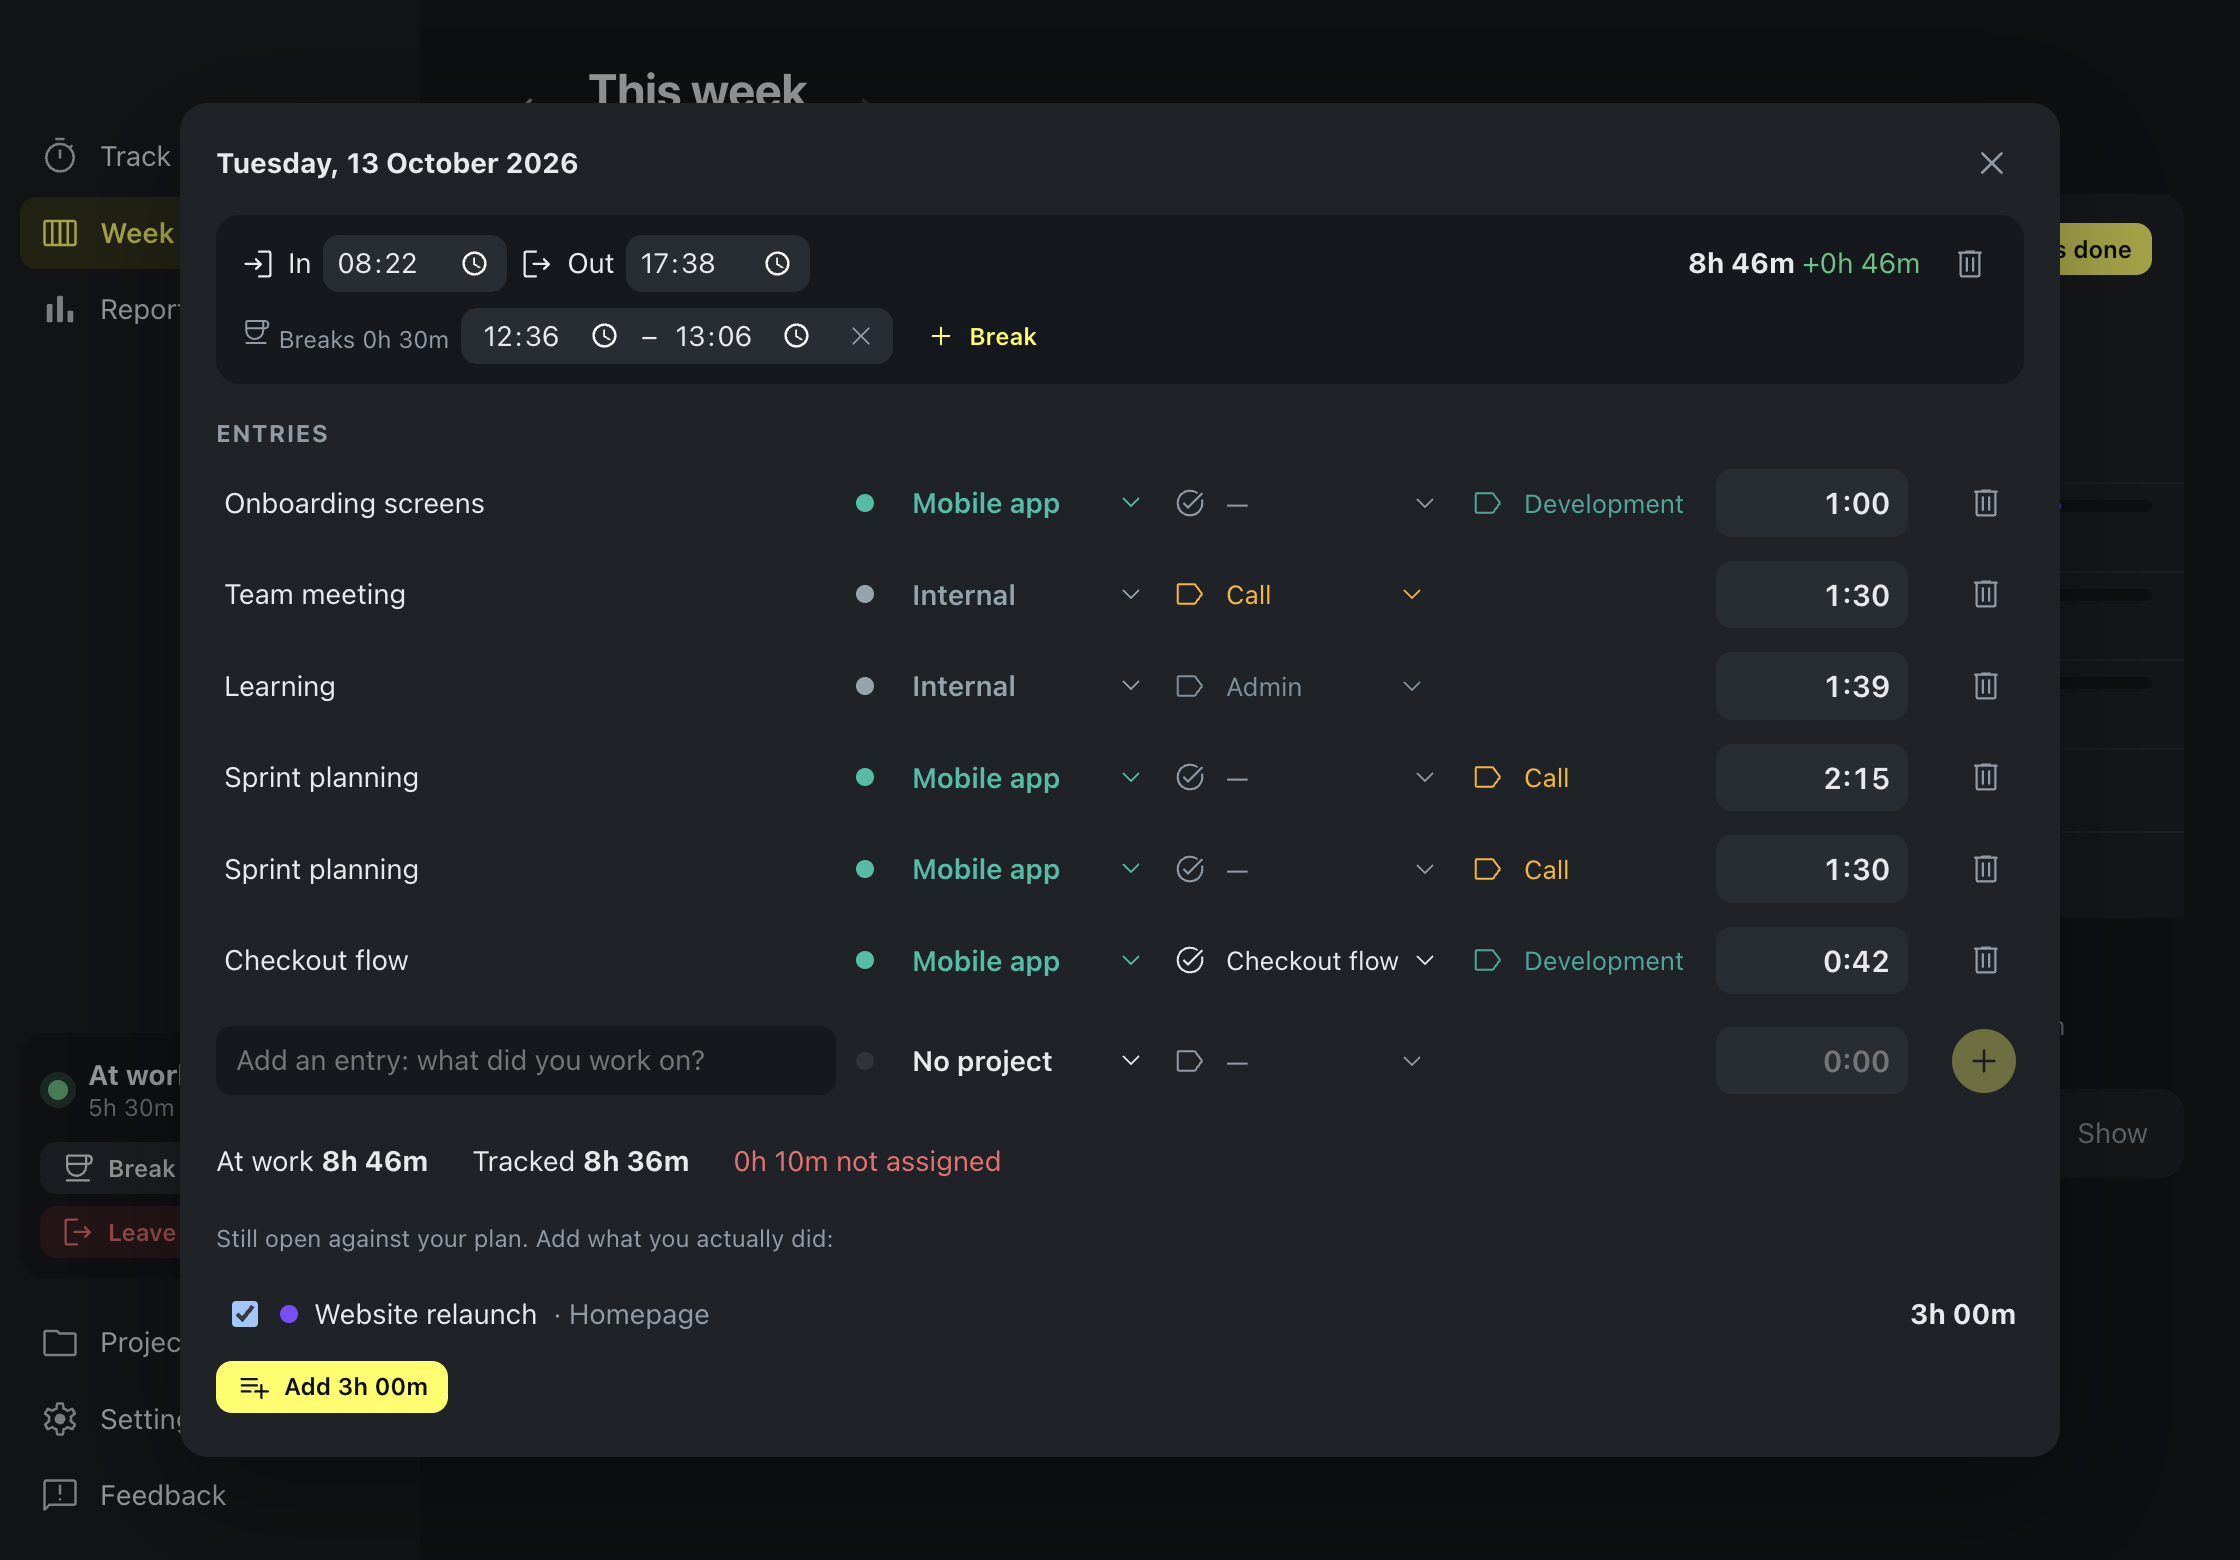
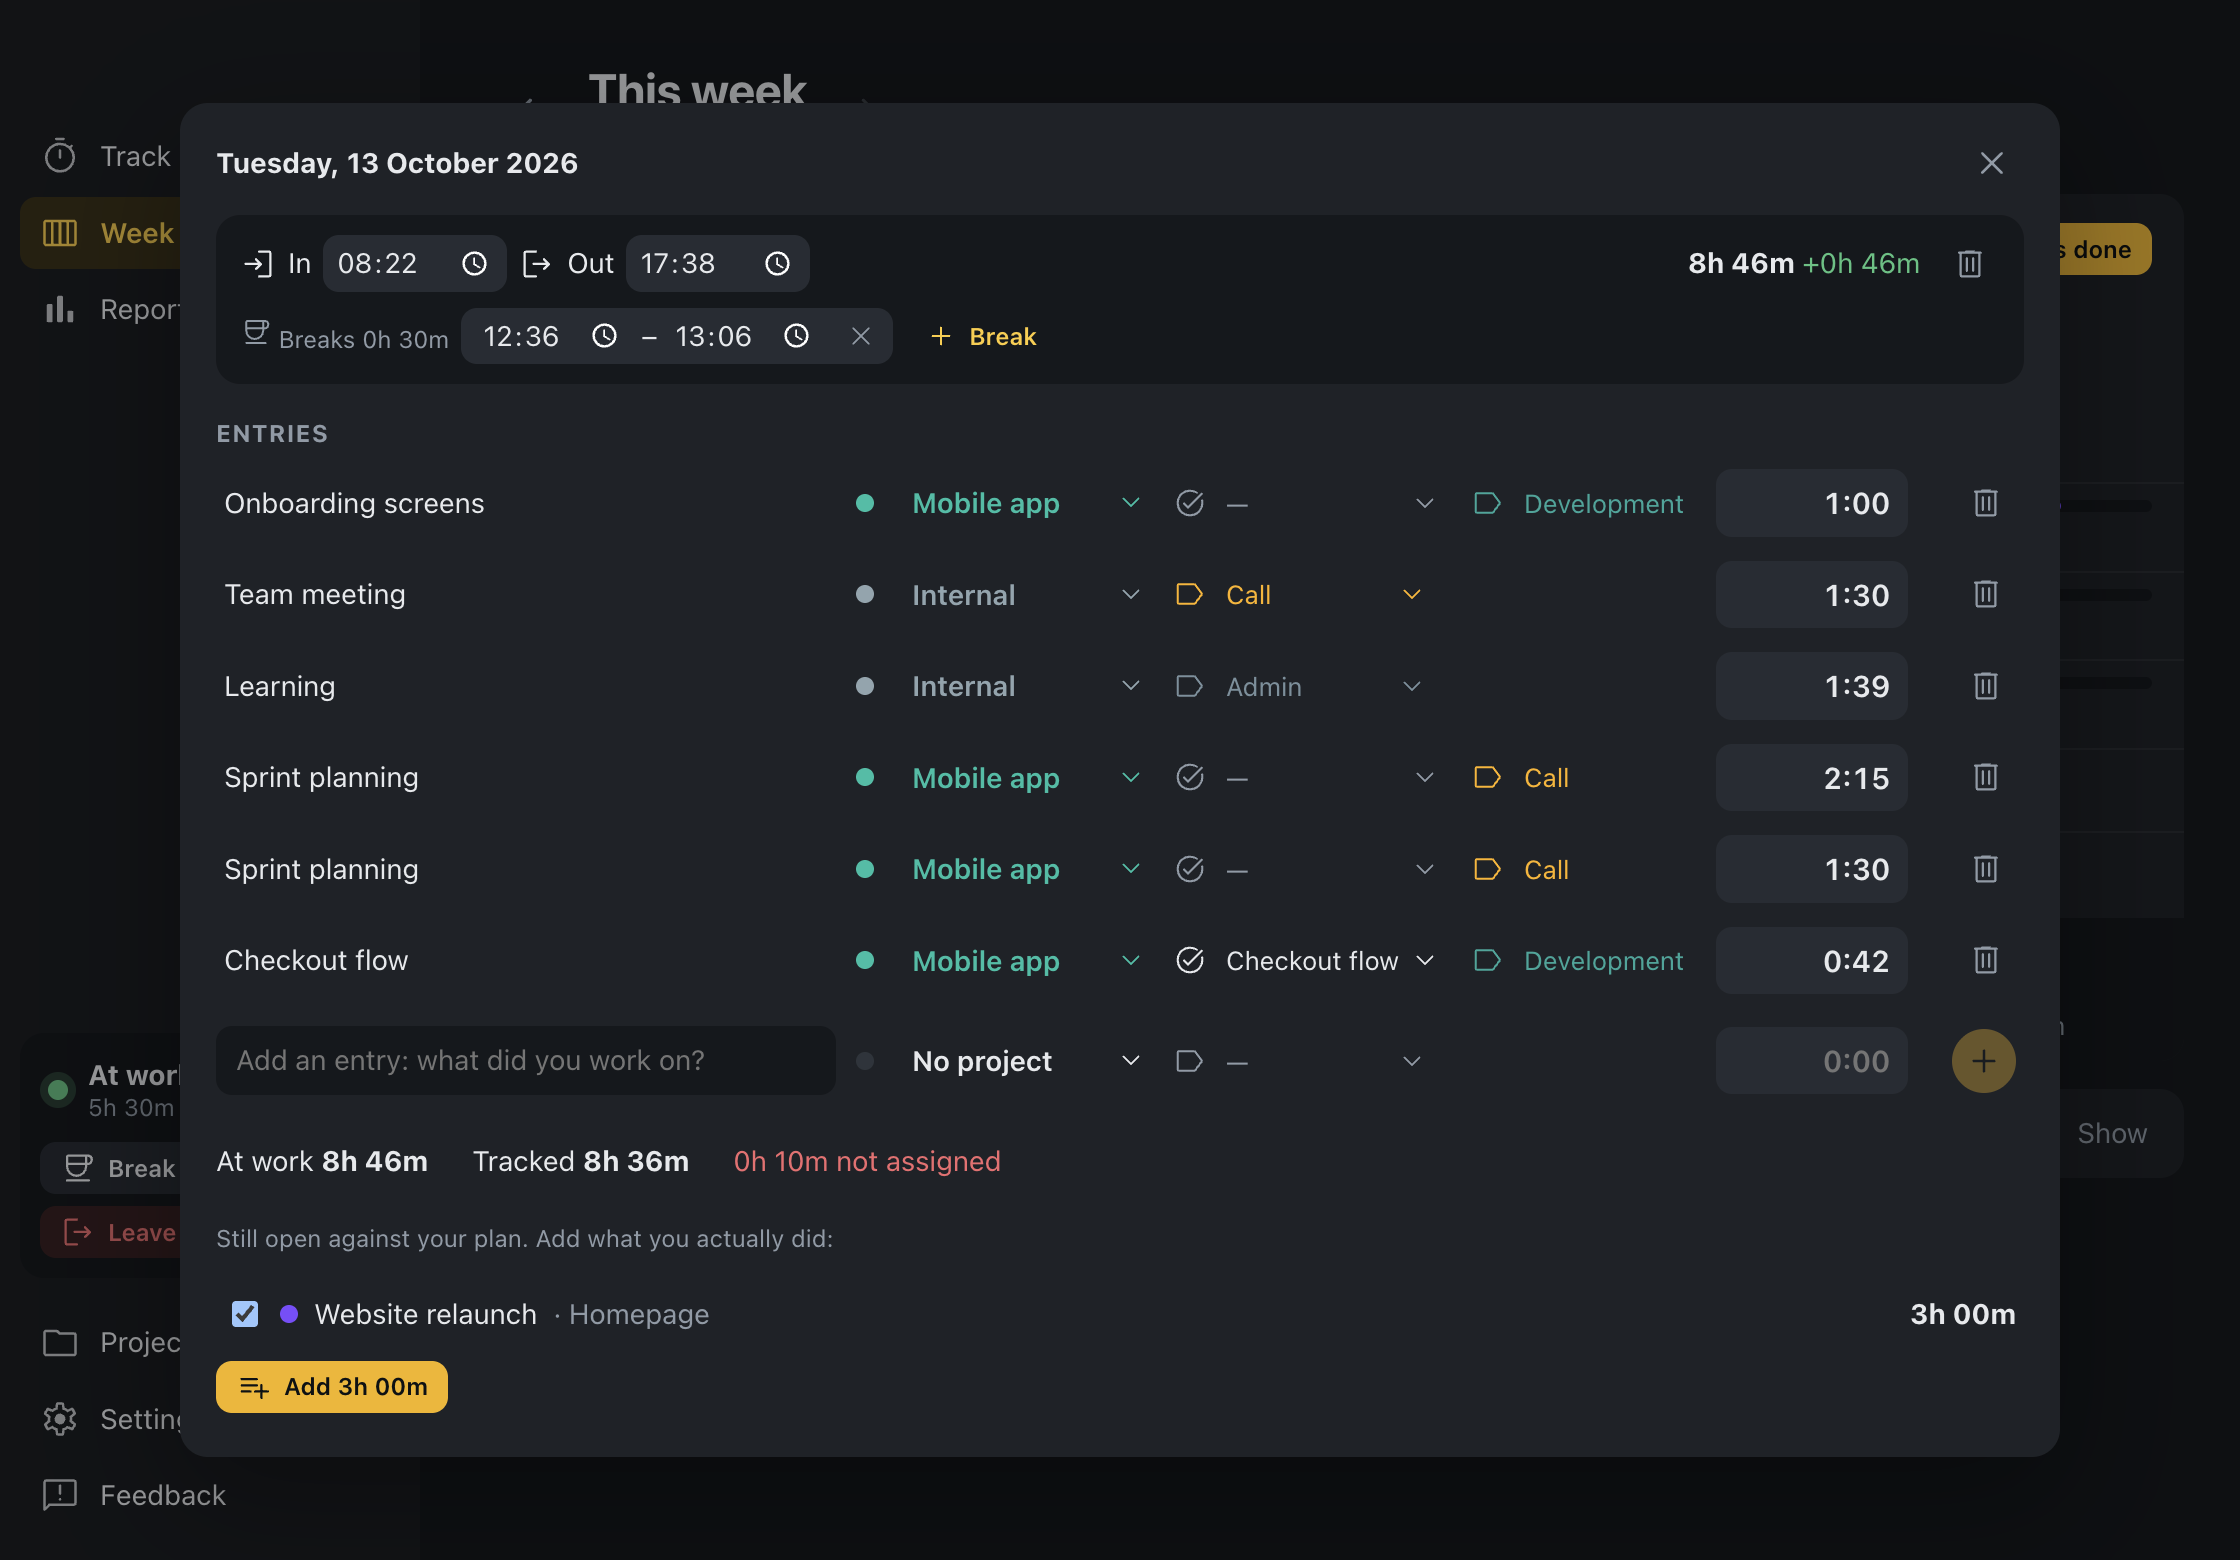
Richer sunny yellow highlight (#F5B400) with dark text for contrast

Changed region(s): [[0.0938, 0.8615, 0.2188, 0.9231], [0.9062, 0.1231, 0.9688, 0.1846], [0.875, 0.6462, 0.9062, 0.7077]]

diff --git a/server/web/styles.css b/server/web/styles.css
@@ -4,9 +4,9 @@
   --surface: #ffffff;
   --text: #1f2933;
   --muted: #6b7785;
-  --accent: #fffd50;
-  --accent-strong: #6f6800;
-  --accent-soft: #fdfbc7;
+  --accent: #f5b400;
+  --accent-strong: #8a5a00;
+  --accent-soft: #fff3cc;
   --on-accent: #0e1113;
   --on-accent-icon: #0e1113;
   --danger: #e5484d;
@@ -25,9 +25,9 @@
     --surface: #1e2227;
     --text: #e6e9ec;
     --muted: #8f9aa6;
-    --accent: #fffd50;
-    --accent-strong: #fffd50;
-    --accent-soft: #33331c;
+    --accent: #f5b400;
+    --accent-strong: #ffcc33;
+    --accent-soft: #3a3016;
     --on-accent: #0e1113;
     --on-accent-icon: #0e1113;
     --danger: #f16a6e;

diff --git a/src/styles.css b/src/styles.css
@@ -5,9 +5,9 @@
   --border: #e3e6ea;
   --text: #1f2933;
   --muted: #6b7785;
-  --accent: #fffd50;
-  --accent-strong: #6f6800;
-  --accent-soft: #fdfbc7;
+  --accent: #f5b400;
+  --accent-strong: #8a5a00;
+  --accent-soft: #fff3cc;
   --on-accent: #0e1113;
   --on-accent-icon: #0e1113;
   --danger: #e5484d;
@@ -29,9 +29,9 @@
     --border: #2e343b;
     --text: #e6e9ec;
     --muted: #8f9aa6;
-    --accent: #fffd50;
-    --accent-strong: #fffd50;
-    --accent-soft: #33331c;
+    --accent: #f5b400;
+    --accent-strong: #ffcc33;
+    --accent-soft: #3a3016;
     --on-accent: #0e1113;
     --on-accent-icon: #0e1113;
     --danger: #f16a6e;
